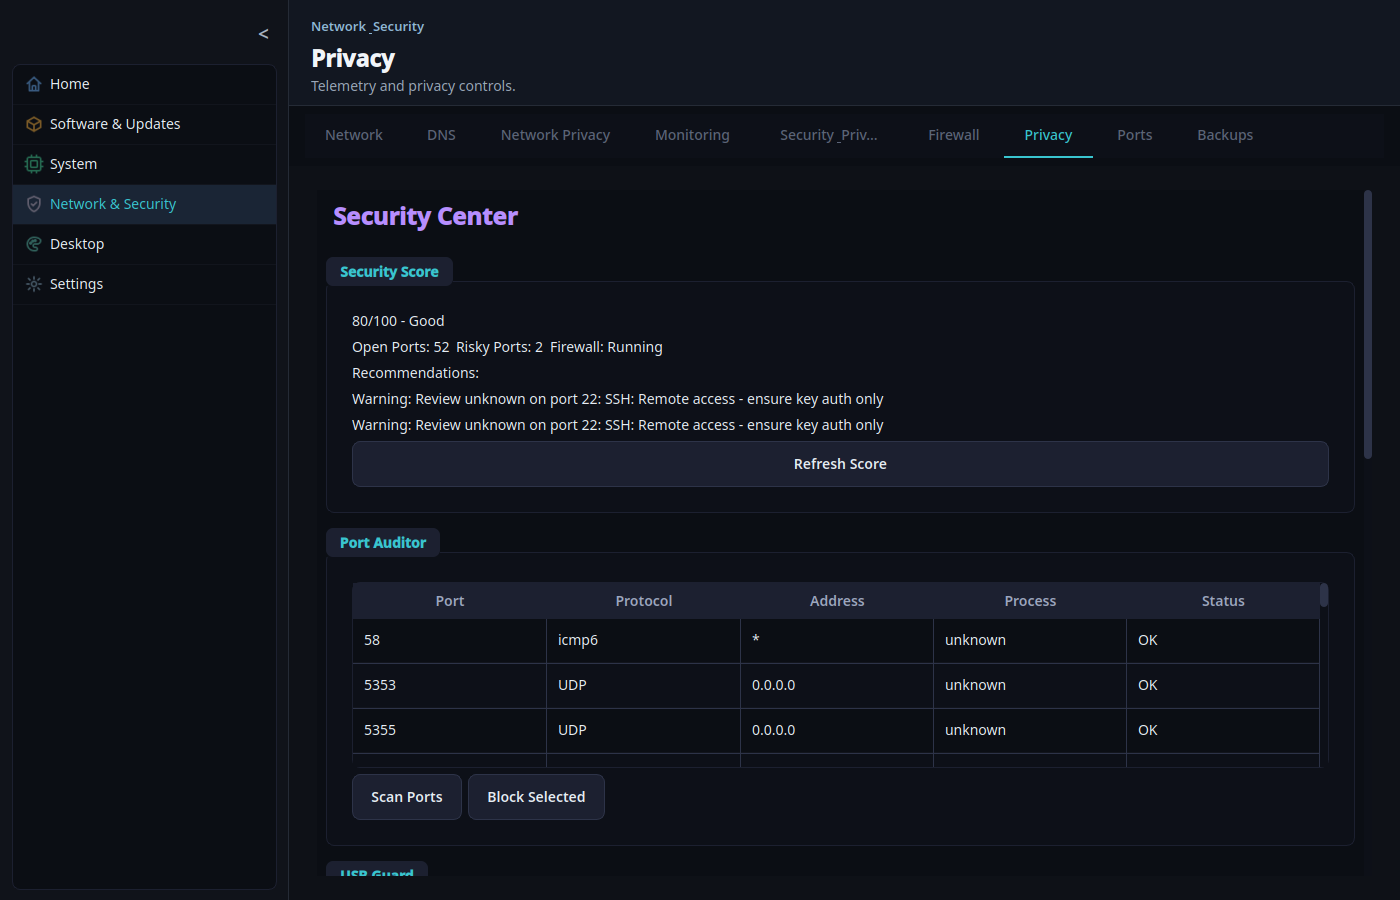
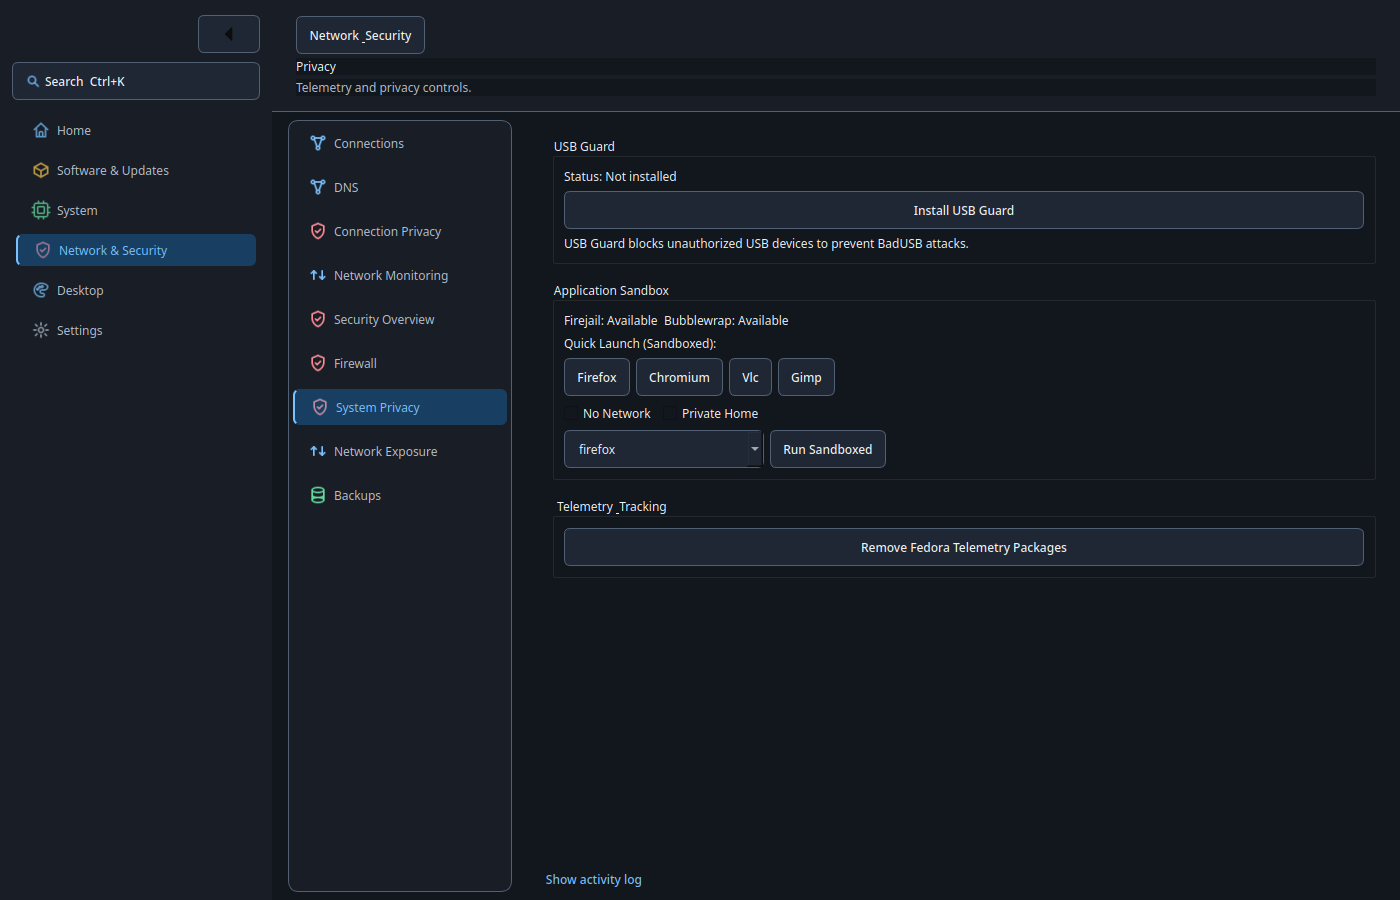
docs: publish v16 wiki [skip ci]

diff --git a/wiki/Home.md b/wiki/Home.md
@@ -2,7 +2,7 @@
 
 Welcome to the official wiki for **Loofi Fedora Tweaks** — a modern Fedora control center for maintenance, diagnostics, security, performance, and automation.
 
-**Current Version**: v15.0.0 "Essentials" — Product Simplification
+**Current Version**: v16.0.0 "Clarity" — Responsive UI Consolidation
 **Screenshots Refreshed**: July 2026
 
 ![Loofi Fedora Tweaks Dashboard](images/hero-home.png)
@@ -10,6 +10,8 @@ Welcome to the official wiki for **Loofi Fedora Tweaks** — a modern Fedora con
 ## At a Glance
 
 - **Focused navigation**: Standard mode has six destinations: Home, Software & Updates, System, Network & Security, Desktop, and Settings.
+- **Responsive sections**: Full-label section navigation reflows for smaller windows and larger font scales instead of clipping.
+- **Shared interface**: Standard and Advanced pages use the same page scaffold, cards, notices, actions, states, and focus treatment.
 - **One Home**: Saved health, state, update, backup, history, and Action Center signals are summarized without probing or mutating the host at startup.
 - **One search surface**: `Ctrl+K` finds routes, settings, and safe action entry points while respecting availability and Standard/Advanced policy.
 - **Advanced tools on demand**: AI Lab, Agents, Automation, Community, Teleport, Virtualization, Gaming, Performance, Profiles, Extensions, and Loofi Link remain available through the optional Advanced destination.
@@ -90,7 +92,7 @@ Welcome to the official wiki for **Loofi Fedora Tweaks** — a modern Fedora con
 ## Quick Links
 
 - GitHub Repository: [loofiboss-bit/loofi-fedora-tweaks](https://github.com/loofiboss-bit/loofi-fedora-tweaks)
-- Latest Release: [v15.0.0](https://github.com/loofiboss-bit/loofi-fedora-tweaks/releases/tag/v15.0.0)
+- Latest Release: [v16.0.0](https://github.com/loofiboss-bit/loofi-fedora-tweaks/releases/tag/v16.0.0)
 - Issues: [Issue Tracker](https://github.com/loofiboss-bit/loofi-fedora-tweaks/issues)
 - Main README: [README.md](https://github.com/loofiboss-bit/loofi-fedora-tweaks/blob/master/README.md)
 - Architecture Doc: [ARCHITECTURE.md](https://github.com/loofiboss-bit/loofi-fedora-tweaks/blob/master/ARCHITECTURE.md)

diff --git a/wiki/Changelog.md b/wiki/Changelog.md
@@ -1,5 +1,13 @@
 # Changelog
 
+## v16.0.0 — Clarity
+
+- Replaced crowded application-level tab rows with responsive, full-label section navigation.
+- Unified Standard and Advanced pages around one scaffold and one shared component language.
+- Added semantic system, dark, light, and high-contrast themes without changing structural layout.
+- Validated the real application shell across supported sizes, font scales, input paths, and accessibility surfaces.
+- Preserved stable routes, state, Action Center, Traditional/Atomic, CLI, API, daemon, IPC, and plugin contracts.
+
 ## v15.0.0 — Essentials
 
 - Reorganized Standard mode into six destinations with one canonical Home and one policy-backed search surface.
@@ -25,6 +33,18 @@ For the complete changelog with all changes, see [CHANGELOG.md](https://github.c
 ---
 
 ## Latest Release
+
+### v16.0.0 "Clarity" (2026-07-18)
+
+**Responsive UI consolidation** with full-label section navigation, shared page
+components, semantic themes, and complete real-shell accessibility validation.
+
+**Release evidence**: 7,722 tests passed with 86.51% coverage. GitHub assets
+include Fedora 44 RPMs, Flatpak, sdist, SHA-256 checksums, CycloneDX SBOM, and
+in-toto/SLSA provenance. COPR build `10740581` passed and the public package
+reported version 16.0.0.
+
+---
 
 ### v10.0.0 "Waypoint" (2026-07-01)
 

diff --git a/wiki/GUI-Tabs-Reference.md b/wiki/GUI-Tabs-Reference.md
@@ -1,6 +1,6 @@
 # GUI Tabs Reference
 
-Reference for Loofi Fedora Tweaks v15.0.0 "Essentials" navigation.
+Reference for Loofi Fedora Tweaks v16.0.0 "Clarity" navigation.
 
 ---
 
